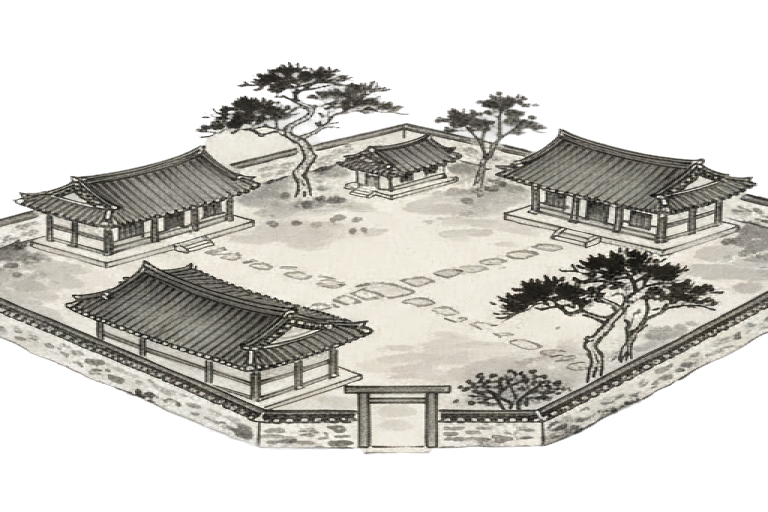
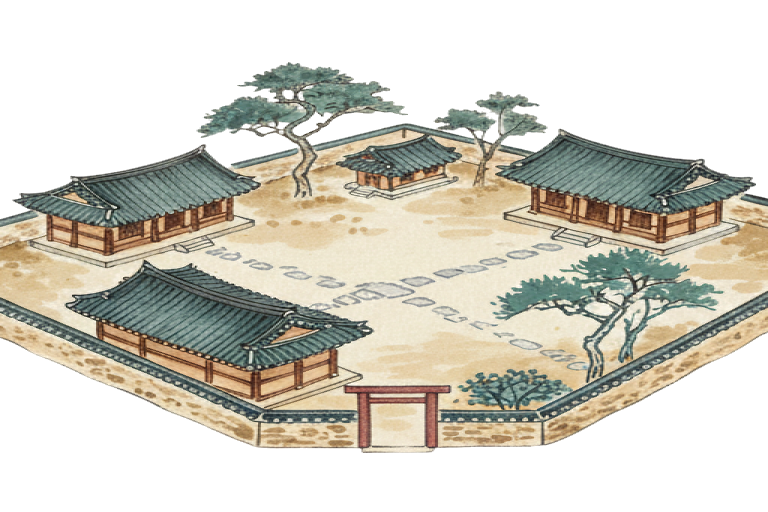
경내 채색본 — 투명으로 걷고, 톤은 :root 에서 내린다
compound_src.png 를 채색본으로 바꾸고 bin/knockout 을 다시 돌렸다. 배경은
여전히 #F5F5F5 라 스크립트는 그대로다. 허용 오차 ±8 에서 기와 먹선 · 소나무
잎 · 붉은 기둥의 가장자리가 뭉개지지 않았다.

문 셋 곁에 두니 기와의 청록이 한 단계 짙고 마당의 노란 흙이 강했다. 파일에
굽지 않고 CSS 필터로 내린다. 네 값은 :root 의 상수다.

  --compound-saturate  0.62   처음 0.72 에서는 기와가 아직 푸르렀다
  --compound-sepia     0.10   노랑은 이 값에서 한지빛 안으로 들어갔다
  --compound-brightness 1.04
  --compound-contrast  0.96

필터는 그림(.compound__map) 한 곳에만 건다. 투명하게 걷어 낸 그림 위에
걸리므로 바탕은 물들지 않고, 「드는 중」의 확대는 이 그림을 키우는 것이라
같은 톤이 따라간다. .compound 에 걸면 그 안의 고정 카드가 조감도에 갇히고
카드까지 물든다.

자물쇠: 네 값이 :root 에 있고, 각 필터 함수가 한 번씩만 쓰이며, 조감도
바깥 틀이나 확대 장면에 따로 걸리지 않는다.

diff --git a/app/assets/tailwind/application.css b/app/assets/tailwind/application.css
@@ -31,6 +31,14 @@
   --dancheong-green: #2f6b62;
   --dancheong-ocher: #b88a4a;
 
+  /* 경내 채색본의 톤 — 파일에 굽지 않고 여기서 내린다. 기와의 청록과 마당의
+     노란 흙이 문 셋보다 한 단계 짙다. 기와가 아직 푸르면 saturate 0.62까지,
+     노랑이 남으면 sepia 0.06으로. */
+  --compound-saturate: 0.62;
+  --compound-sepia: 0.10;
+  --compound-brightness: 1.04;
+  --compound-contrast: 0.96;
+
   /* 어둠 — 문과 몰입 화면의 것 */
   --night: #0b0a08;
   --night-deep: #050505;
@@ -617,6 +625,13 @@ input[type="text"].threshold__field {
 /* 본문 여백 밖으로 나가 화면 폭 전체를 쓴다. */
 .compound { position: relative; width: calc(100% + 3rem); margin: 0 -1.5rem 1.5rem; }
 .compound__map { display: block; width: 100%; height: auto; user-select: none; -webkit-user-drag: none; }
+/* 톤은 그림 자체에만, 한 곳에서. 투명하게 걷어 낸 뒤에 걸리므로 바탕은 물들지
+   않는다. 「드는 중」의 확대도 이 그림을 키우는 것이라 같은 톤이 따라간다.
+   .compound 에 걸면 그 안의 고정 카드가 조감도에 갇히고 카드까지 물든다. */
+.compound__map {
+  filter: saturate(var(--compound-saturate)) sepia(var(--compound-sepia))
+          brightness(var(--compound-brightness)) contrast(var(--compound-contrast));
+}
 .compound__hall {
   position: absolute; display: block;
   font-family: var(--serif); font-size: 13px; color: var(--ink); text-decoration: none; line-height: 1;

diff --git a/test/integration/compound_flow_test.rb b/test/integration/compound_flow_test.rb
@@ -172,6 +172,20 @@ class CompoundFlowTest < ActionDispatch::IntegrationTest
     end
   end
 
+  # 채색본의 톤은 파일이 아니라 :root 의 네 값에서 온다. 그림 한 곳에만 걸려
+  # 확대 장면에도 같은 톤이 따라가고, 값이 두 곳으로 흩어지지 않는다.
+  test "경내 그림의 톤은 :root 네 값에서, 그림 한 곳에만 걸린다" do
+    css = Rails.root.join("app/assets/tailwind/application.css").read
+    root = css[/:root \{.*?\n\}/m]
+
+    %w[saturate sepia brightness contrast].each do |name|
+      assert_match(/--compound-#{name}: [\d.]+;/, root, "--compound-#{name} 가 :root 에 없다")
+      assert_equal 1, css.scan(/#{name}\(var\(--compound-#{name}\)\)/).size, "#{name} 이 한 곳이 아니다"
+    end
+    assert_match(/\.compound__map \{\s*filter: saturate\(var/, css)
+    assert_no_match(/\.compound(--zooming)? (\.compound__scene )?\{[^}]*filter/, css, "톤이 그림 밖에 걸렸다")
+  end
+
   test "조감도는 배경이 투명하다 — 어떤 바탕에도 얹힌다" do
     png = Rails.root.join("app/assets/images/compound.png").binread
     assert_equal 6, png.byteslice(25, 1).unpack1("C"), "RGBA 가 아니다"
